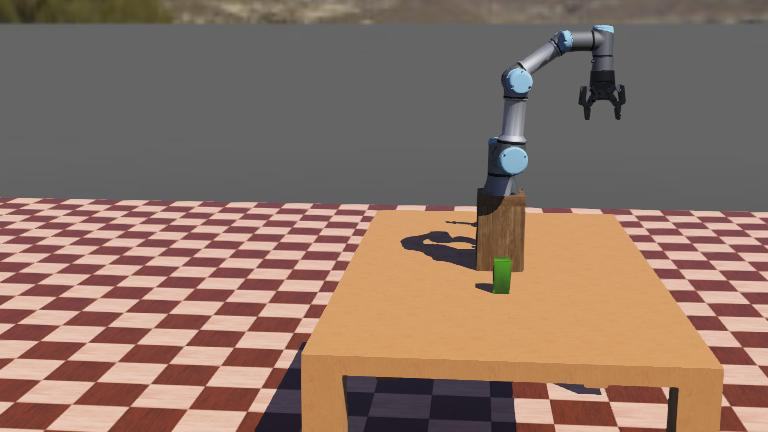
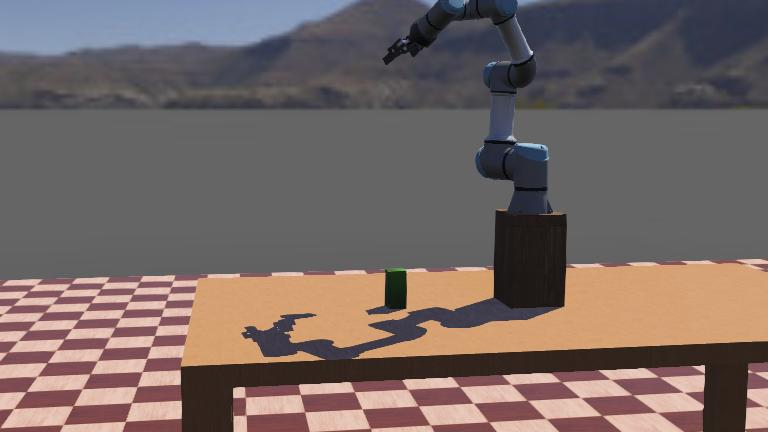
na ja

diff --git a/controllers/ur3_rtde_controller_camera_3d/ur3_rtde_controller_camera_3d.py b/controllers/ur3_rtde_controller_camera_3d/ur3_rtde_controller_camera_3d.py
@@ -138,21 +138,51 @@ def inverse_kinematics(cartesian_pose):
     if len(cartesian_pose) != 6:
         print("Ungültige Pose für IK:", cartesian_pose)
         return None
-    x, y, z, rx, ry, rz = cartesian_pose   # roll rx, pitch ry, yaw rz
-    print("Cartesian Pose", cartesian_pose)
+    _x, _y, _z, rx, ry, rz = cartesian_pose   # roll rx, pitch ry, yaw rz
+    print(" requested pose", cartesian_pose)
 
-    #!!!!!!!!!!!!!!!!!!!!!!
-    # Zielpose definieren (Beispiel)
-    T_goal = SE3.Trans(-0.45690, -0.19425, 0.06655) * SE3.Rx(180, 'deg')
-   
-    #  Schnelle IK mit Levenberg-Marquad
-    sol = ur3e.ikine_LM(T_goal)
-    if sol.success:
-        print(f"Gelenkwinkel mit IK: {sol.q}")
-    else:
-        print("Keine IK Lösung gefunden")
+    # Zielpose definieren (Beispiele)   
+    #T_goal = SE3.Trans(-0.45690, -0.19425, 0.06655) * SE3.Rx(180, 'deg')
+    #T_goal = SE3.Trans(x,y,z) * SE3.Rx(180, 'deg')    
+    #T_goal = SE3.Trans(_x, _y, _z) * SE3.Rx(180, 'deg') #funkt
     
-    return sol.q
+    # --- Zielpose definieren ---
+    T_goal = SE3.Trans(_x,_y,_z) * SE3.RPY(rx, ry, rz, order='xyz')
+   
+ 
+    
+    """
+    end   = ur3e.ee_links[0] # tool_0
+    start = ur3e.links[0]    # base_links
+    Im Gegensatz zu einigen anderen Robotik-Toolboxen (z. B. MATLAB-Version oder ältere Python-Versionen) 
+    wird bei der aktuellen Robotics Toolbox für Python die inverse Kinematik immer für die gesamte kinematische Kette 
+    vom Basis-Link bis zum Endeffektor berechnet. Es ist daher nicht erforderlich (und auch nicht möglich), 
+    explizit start oder end als Argumente zu übergeben."""
+
+    q0 = current_joint_angles.copy()
+    #  Schnelle IK mit Levenberg-Marquard
+    sol = ur3e.ikine_LM(
+        T_goal,         
+        q0=q0,
+    )
+    """ 
+    # Alternative Lösungsmethoden testen  !!!Nicht bei DHRobot vorhanden !!!
+        sol = ur3e.ikine_LM(              #Levenberg Marquard
+        sol_min = ur3e.ikine_min(T_goal)  # Minimale Bewegung 
+        sol_jt = ur3e.ikine_J(T_goal)     # Jacobi-Transpose-Methode
+
+        Diese sind vorhanden
+        ikine_LM
+        ik_GN, ik_gn .....
+    """
+    
+    if sol.success:
+        print(f"IK Lösung Gelenkwinkel: {sol.q}")  
+        return sol.q      
+    else:
+        print("Keine IK Lösung gefunden fuer ", cartesian_pose)
+        return None
+    
 
 #---------- HIER DIE IK UMSETZEN ----!!!
 
@@ -194,22 +224,21 @@ def handle_client(conn, addr):
 
                 elif command == "moveL":
                     ##!!!! Dieser Print erfolgt auf der  Webots Konsole !!!
-                    print("MoveL")
+                    #print("MoveL")
                     # hier den IK-Aufruf einfügen
                     payload = request.get("data", {})
                     pose = payload.get("pose", [])
                     speed = payload.get("speed", 0.5)
-                    print("len", len)
+                    #print("len", len(pose))
                     if len(pose) == 6:
                         print(" Target Pose IK ", pose)
-                        q = inverse_kinematics(pose)  # ==>>> IK 
-                        """====>>>  ERRROR HIER   if q:
-                            target_joint_angles[:] = q
+                        target_joint_angles[:] = inverse_kinematics(pose)  # ==>>> IK 
+                        if len(target_joint_angles)==6:
                             for name in joint_names:
                                 motors[name].setVelocity(speed)
-                            response = {"info": "Target Q akzeptiert", "target_q": q, "speed": speed}
+                                response = {"info": "Target Q akzeptiert", "target_q": target_joint_angles.copy(), "speed": speed}
                         else:
-                            response = {"error": "IK fehlgeschlagen"}"""
+                            response = {"error": "IK fehlgeschlagen"}
                     else:
                         response = {"error": "Ungültige Pose"}
 
@@ -282,20 +311,20 @@ while robot.step(timestep) != -1:
     #range_finder.saveImage("image_rf1.jpg", 100)
    
     with lock:
+        tstep = tstep +1
         # Aktuelle Gelenkpositionen aktualisieren
         current_joint_angles = [
             sensors[name].getValue() if name in sensors else 0.0
             for name in joint_names
         ]
         #formatierte Ausgabe
-        #print(f"aktuelle Gelenkwinkel: {tstep}, {current_joint_angles[0]:+.2f}, {current_joint_angles[1]:+.2f}, {current_joint_angles[2]:+.2f}, {current_joint_angles[3]:+.2f}, {current_joint_angles[4]:+.2f}, {current_joint_angles[5]:+.2f}",     end=" ")
-        tstep = tstep +1
-       
-        #####  TCP ##################           
-        # Vorwärtskinematik berechnen
-        T = ur3e.fkine(current_joint_angles)  # fkine-Methode ergibt ein SE3-Objekt
-        #print(f" TCP-Position (x, y, z): {T.t[0]:+.2f}, {T.t[1]:+.2f}, {T.t[2]:+.2f}") # , end=" ")
-        # print(T) => 4x4 Matrix
+        if tstep % 100 == 0:
+            print(f"aktuelle Gelenkwinkel: {tstep}, {current_joint_angles[0]:+.2f}, {current_joint_angles[1]:+.2f}, {current_joint_angles[2]:+.2f}, {current_joint_angles[3]:+.2f}, {current_joint_angles[4]:+.2f}, {current_joint_angles[5]:+.2f}",     end=" ")     
+            #####  TCP ##################           
+            # Vorwärtskinematik berechnen
+            T = ur3e.fkine(current_joint_angles)  # fkine-Methode ergibt ein SE3-Objekt
+            print(f" TCP-Position (x, y, z): {T.t[0]:+.2f}, {T.t[1]:+.2f}, {T.t[2]:+.2f}") # , end=" ")
+            # print(T) => 4x4 Matrix
        
         # Roboterbewegung steuern
         for name, angle in zip(joint_names, target_joint_angles):

diff --git a/controllers/ur3_rtde_controller_camera_3d/test_client_moveL_IK.py b/controllers/ur3_rtde_controller_camera_3d/test_client_moveL_IK.py
@@ -30,11 +30,12 @@ gripper.set_force(50)
 gripper.set_speed(100)
 
 # Liste von Positionen (Gelenkwinkel)
-# [x, y, z, roll, pitch, yaw] in rad???
+# [x, y, z, roll, pitch, yaw] in deg !!
 waypoints_xyz = [
-    [-0.45690, -0.19425, 0.06655, 0.0, 0.0, 0.0],   
-    [-0.45690, -0.19425, 0.06655, 3.1, 3.1, 3.1],     
+   [-0.45690, -0.19425, 0.06655, 0, 180, 180] 
 ]
+#  [-0.45690, -0.19425, 0.06655, 0, 180, 180],  funkt
+# [0.0071, -0.3682, 1.0, 3.1, 3.1, 3.1],  Pose Solid Box
 # Bewegungen mit MoveJ ausführen
 input("Roboter startet Bewegung (MoveL) nach Eingabe beliebiger Taste")
 for i, ziel_pose in enumerate(waypoints_xyz ):
@@ -47,7 +48,7 @@ for i, ziel_pose in enumerate(waypoints_xyz ):
     actual_q = rtde_r.getActualQ() # in radian
     print("Aktueller Zustand - Gelenkpositionen in Grad ")
     for arg in actual_q:
-        print(arg *180.0/3.1415927)
+        print(arg *180.0/3.1415927, end=" ")
     time.sleep(2)
 
 # Abschluss
